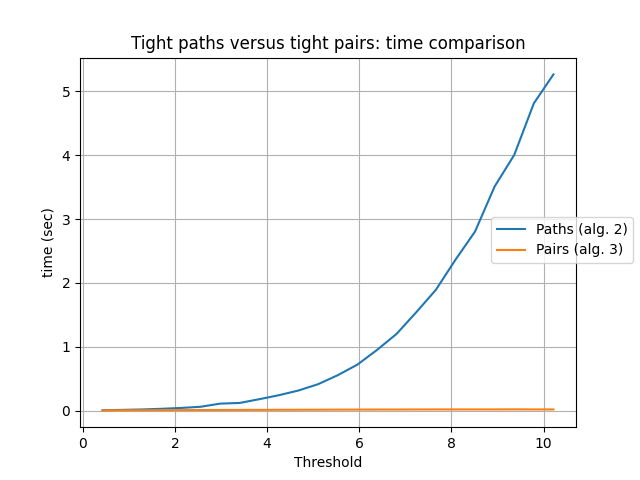
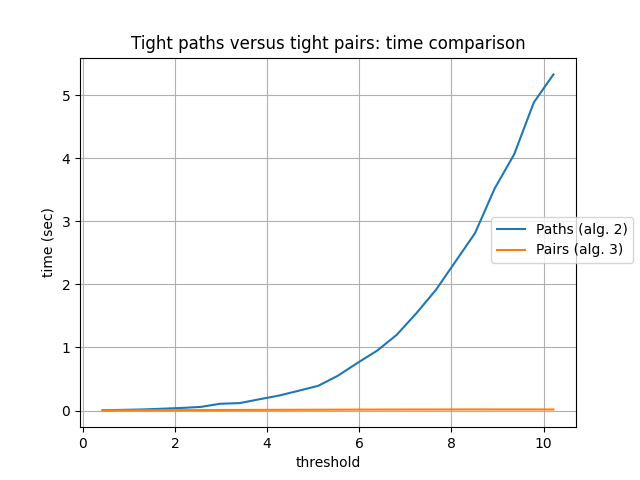
Timing figures, cosmetics

diff --git a/src/timing_2_3.py b/src/timing_2_3.py
@@ -50,7 +50,7 @@ fig, ax = plt.subplots()
 ax.plot(thrs, plotcol0, label = "Paths (alg. 2)")
 ax.plot(thrs, plotcol1, label = "Pairs (alg. 3)")
 
-ax.set(xlabel='Threshold', ylabel='time (sec)',
+ax.set(xlabel='threshold', ylabel='time (sec)',
        title='Tight paths versus tight pairs: time comparison')
 ax.grid()
 
